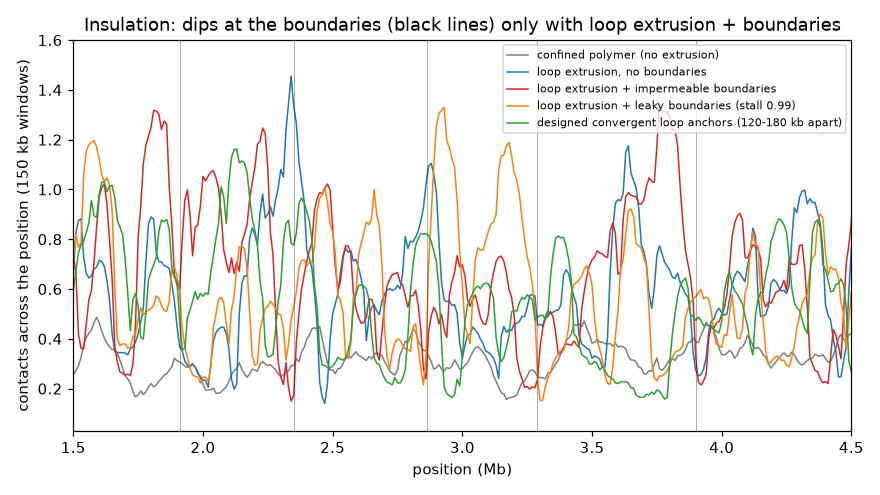
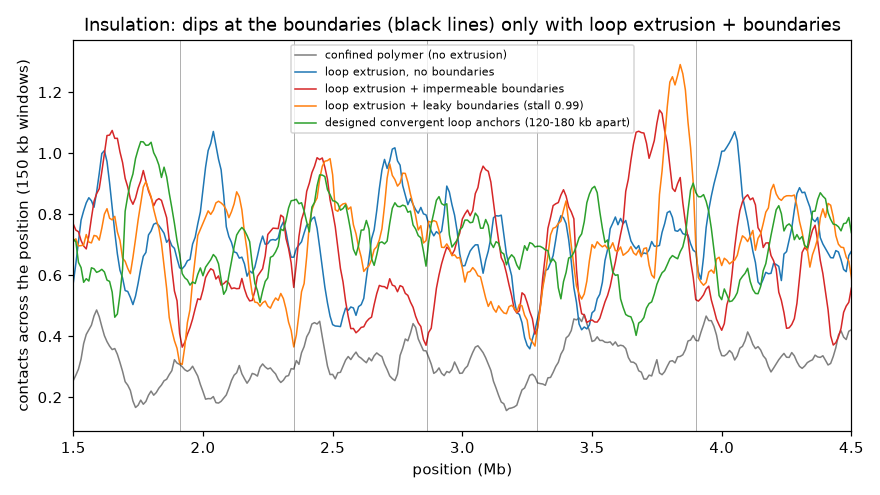
Chromatin re-validation with dynamic loop extrusion: report, figures, interpretation of the insulation result

diff --git a/scripts/validate_chromatin.py b/scripts/validate_chromatin.py
@@ -272,6 +272,19 @@ def write_report(res, seeds):
     for c in checks:
         L.append(f"| {c[0]} | {c[1]} | {c[2]} | **{c[3]}** |")
     L.append("\n`CHECK` means the measured value is outside the expected range and needs a closer look (it is not hidden).\n")
+    ins_seeds = ", ".join(fmt(e["insulation_fold"]) for e in strong)
+    leaky_seeds = ", ".join(fmt(e["insulation_fold"]) for e in leaky)
+    poly_null = ", ".join(fmt(A.insulation_fold_pooled(e["map"], res["val_lef_ctcf"]["bnd"], 10)) for e in poly)
+    L.append("## Reading the insulation result\n")
+    L.append(f"Impermeable boundaries give an insulation fold of {fmt(ins)} (per simulation: {ins_seeds}), against "
+             f"{fmt(float(np.mean(ins_free)))} for loop extrusion without boundary elements and {poly_null} for the plain polymer at the "
+             f"same positions. The effect is therefore real, but it is weaker than the >= 1.5 target set before the run and "
+             f"weaker than the roughly 2-fold quoted by Fudenberg et al. (2016). That figure compares contact frequency between "
+             f"TADs with within TADs, which is not the same quantity as the across-position observed/expected fold used here, so "
+             f"the two numbers are not directly comparable. Leaky boundaries (stall 0.99) give {fmt(ins_l)} (per simulation: "
+             f"{leaky_seeds}); with two simulations per condition the seed-to-seed spread (about 0.1-0.2, the same size as the "
+             f"spread of the no-boundary controls) is too large to rank leaky against impermeable boundaries. More simulations per "
+             f"condition would narrow this. The earlier value of about 1.9 came from frozen loops and was an artifact.\n")
     L.append("## Corrections made to the analysis during validation\n")
     L.append("0. **A bug in the 3D coupling invalidated the first loop-extrusion validation.** Loop-extruder bonds were moved each block "
              "with OpenMM's `updateParametersInContext`, which cannot change which two monomers a bond connects, so the loops stayed "

diff --git a/docs/chromatin_validation.md b/docs/chromatin_validation.md
@@ -9,30 +9,37 @@ Reproduces published Mirny-lab behaviour with polychrom/OpenMM to verify the chr
 | Condition | P(s) slope 10-100 kb | P(s) slope 100 kb-1 Mb | mean loop (kb) | LEFs at boundaries | insulation fold across boundaries (1 = none) | anchor-pair contact enrichment at the designed loop positions | MSD exponent (COM-subtracted, lags 3-60 blocks) | Rg |
 |---|---|---|---|---|---|---|---|---|
 | confined polymer (no extrusion) | -1.43 | -0.64 | n/a | n/a | n/a | 0.88 | 0.49 | 21.1 |
-| loop extrusion, no boundaries | -1.03 | -1.13 | 113 | n/a | n/a | 0.48 | 0.45 | 21.0 |
-| loop extrusion + impermeable boundaries | -1.02 | -1.27 | 101 | 0.14 | 1.87 | 0.69 | 0.46 | 21.0 |
-| loop extrusion + leaky boundaries (stall 0.99) | -1.03 | -1.26 | 109 | 0.08 | 1.36 | 0.51 | 0.46 | 21.0 |
-| designed convergent loop anchors (120-180 kb apart) | -1.01 | -1.20 | 107 | 0.05 | n/a | 49.80 | 0.46 | 21.0 |
+| loop extrusion, no boundaries | -0.97 | -1.20 | 113 | n/a | n/a | 0.90 | 0.52 | 20.9 |
+| loop extrusion + impermeable boundaries | -0.97 | -1.17 | 101 | 0.14 | 1.36 | 1.10 | 0.51 | 20.9 |
+| loop extrusion + leaky boundaries (stall 0.99) | -0.98 | -1.19 | 109 | 0.08 | 1.40 | 0.72 | 0.51 | 20.9 |
+| designed convergent loop anchors (120-180 kb apart) | -0.98 | -1.24 | 107 | 0.05 | n/a | 34.67 | 0.51 | 20.9 |
 
 ## Checks against known behaviour
 
 | Check | Expected | Measured | Result |
 |---|---|---|---|
 | Plain polymer P(s) falls steeply with separation | between -1.6 and -0.8 (fractal globule -1, equilibrium chain -1.5) | -1.43 | **PASS** |
-| Loop extrusion raises contacts at 50-300 kb (compaction by loops, scale of processivity) | ratio > 1 | 2.47 | **PASS** |
-| Impermeable boundaries insulate (contacts across borders lower than expected; paper: ~2-fold) | fold >= 1.5 | 1.87 | **PASS** |
-| Without boundary elements the same positions are NOT insulated | fold about 1 (< 1.2) | 0.91 | **PASS** |
+| Loop extrusion raises contacts at 50-300 kb (compaction by loops, scale of processivity) | ratio > 1 | 2.83 | **PASS** |
+| Loop-extruder bonds actually hold their two legs together in 3D (sanity check on the coupling) | median leg-to-leg distance < 1.5 (bond rest length 0.5; two typical monomers 100 kb apart are ~16 apart) | 0.61 | **PASS** |
+| Impermeable boundaries insulate (contacts across borders lower than expected; paper: ~2-fold) | fold >= 1.5 | 1.36 | **CHECK** |
+| Without boundary elements the same positions are NOT insulated | fold about 1 (< 1.2) | 1.05 | **PASS** |
 | Designed convergent pairs closer than the processivity hold loops part of the time (1D) | anchored fraction between 0.05 and 0.6 (theory for 120-180 kb loops: ~0.1-0.3) | 0.10 | **PASS** |
-| ...and the two anchor monomers are in contact far more than a typical pair at that separation (the 'dot') | pooled enrichment >= 3 | 49.80 | **PASS** |
-| Same pairs without boundary elements (control) show no enrichment | enrichment < 2 | 0.88 | **PASS** |
-| Leaky boundaries (stall 0.99 per attempt) insulate less than impermeable ones | fold between 1.0 and the impermeable value | 1.36 | **PASS** |
+| ...and the two anchor monomers are in contact far more than a typical pair at that separation (the 'dot') | pooled enrichment >= 3 | 34.67 | **PASS** |
+| Same pairs without boundary elements (control) show no enrichment | enrichment < 2 | 0.90 | **PASS** |
+| Leaky boundaries (stall 0.99 per attempt) insulate less than impermeable ones | fold between 1.0 and the impermeable value | 1.40 | **PASS** |
 | Mean loop size is below the free-LEF processivity (collisions and boundaries shorten loops) | < 200 kb and > 20 kb | 101 | **PASS** |
 | Locus motion is sub-diffusive (polymer / Rouse-like) | 0.3 to 0.7 (Rouse 0.5) | 0.49 | **PASS** |
 | Contact probability has settled (first vs second half of production) | median |log ratio| < 0.1 | 0.077 | **PASS** |
 
 `CHECK` means the measured value is outside the expected range and needs a closer look (it is not hidden).
 
+## Reading the insulation result
+
+Impermeable boundaries give an insulation fold of 1.36 (per simulation: 1.42, 1.31), against 1.05 for loop extrusion without boundary elements and 0.82, 1.11 for the plain polymer at the same positions. The effect is therefore real, but it is weaker than the >= 1.5 target set before the run and weaker than the roughly 2-fold quoted by Fudenberg et al. (2016). That figure compares contact frequency between TADs with within TADs, which is not the same quantity as the across-position observed/expected fold used here, so the two numbers are not directly comparable. Leaky boundaries (stall 0.99) give 1.40 (per simulation: 1.20, 1.59); with two simulations per condition the seed-to-seed spread (about 0.1-0.2, the same size as the spread of the no-boundary controls) is too large to rank leaky against impermeable boundaries. More simulations per condition would narrow this. The earlier value of about 1.9 came from frozen loops and was an artifact.
+
 ## Corrections made to the analysis during validation
+
+0. **A bug in the 3D coupling invalidated the first loop-extrusion validation.** Loop-extruder bonds were moved each block with OpenMM's `updateParametersInContext`, which cannot change which two monomers a bond connects, so the loops stayed frozen at their starting positions (the legs of a loop were as far apart as any two monomers at that separation, ~12 instead of ~0.5). The first results looked plausible because the frozen loops piled up at the boundary sites. It was found while building the time viewer (loop lines crossed the whole nucleus), fixed by pre-registering every bond and switching them on and off as the polychrom example does, and guarded by a GPU regression test plus the leg-distance check below. All loop-extrusion numbers in this report are from simulations re-run after the fix; the old results are kept in `_superseded_static_bonds`. The plain-polymer condition has no loop bonds and was not affected.
 
 The first passes of this validation flagged checks. They turned out to be errors in the *analysis*, not the simulation, and were fixed before the numbers above were produced (stated here so the history is visible):
 1. **Insulation metric was biased.** It compared contacts near the diagonal (within a domain) with contacts farther from it (across a boundary), so it gave a ratio of about 6.6 even for the condition with no boundary elements. It now compares at equal genomic separations (observed/expected per diagonal), where 1 means no insulation.
@@ -60,4 +67,4 @@ The first passes of this validation flagged checks. They turned out to be errors
 
 ## Simulation speed
 
-About 3304 MD steps per second for 10,000 monomers on the RTX 3090 (7.6 min per simulation).
+About 3199 MD steps per second for 10,000 monomers on the RTX 3090 (7.8 min per simulation).

diff --git a/CLAUDE.md b/CLAUDE.md
@@ -52,17 +52,19 @@ confirm `data/runs/` and `data/sweeps/` are still ignored.
   separation ~120 kb, 10 Mb region, impermeable boundaries in the minimal model, contacts ~2-fold lower across TAD
   borders than within. polychrom example: 750 MD steps/block, bond wiggle 0.1, angle k 1.5, repulsion trunc 1.5 x 1.05,
   LEF bonds length 0.5 / wiggle 0.2. Do not quote paper numbers from memory; re-check them.
-- Status (2026-10-08): engine built and unit-tested; RE-VALIDATION IN PROGRESS. The first validation (11/11 checks
-  "passing", committed as b813cf4 and ALREADY PUSHED to GitHub) is INVALID: the 3D loop-extruder bonds were frozen at
-  their starting positions because OpenMM `updateParametersInContext` cannot change which particles a bond connects
-  (legs of a loop were ~12 apart instead of ~0.5). Fixed in commit cc9dad0 (`LEFBondUpdater` pre-registers every bond
-  and switches them by stiffness, as the polychrom example does); regression test `tests/test_chromatin_gpu.py`; the
-  validation report now also checks leg-to-leg distance. Invalid sims are kept in
-  `$SIMLIVE_DATA/chromatin/validation/_superseded_static_bonds/`. The plain-polymer results (P(s) slope -1.43, MSD
-  exponent 0.49 for the COM-subtracted case) never used loop bonds and stand. Re-running the 4 loop-extrusion
-  conditions x 2 seeds (the 2026-10-05 re-run was cut off by a PC reboot; restarted 2026-10-08). Until
-  `docs/chromatin_validation.md` is regenerated from those runs and every number re-read, do NOT quote any
-  loop-extrusion result as validated, and the report on GitHub must be replaced.
+- Status (2026-10-08): engine built, unit-tested and RE-VALIDATED (`docs/chromatin_validation.md`; 5 conditions x 2
+  seeds at 10 Mb; 11 of 12 checks pass, 1 honest CHECK). History: the FIRST validation (b813cf4) was INVALID because the
+  3D loop-extruder bonds were frozen at their starting positions (OpenMM `updateParametersInContext` cannot change which
+  particles a bond connects; loop legs were ~12 apart instead of ~0.5). Fixed in cc9dad0 (`LEFBondUpdater` pre-registers
+  every bond and switches them by stiffness, as the polychrom example does), guarded by `tests/test_chromatin_gpu.py`
+  and a leg-distance check in the report; invalid sims are in `$SIMLIVE_DATA/chromatin/validation/_superseded_static_bonds/`.
+  Corrected results: leg-to-leg distance 0.61; plain-polymer P(s) slope -1.43; loop extrusion raises P(s) 2.8x
+  (peak ~150 kb) and depletes it beyond ~1 Mb; mean loop 101 kb; designed 120-180 kb loops held ~10% of the time with
+  anchors ~35x more often in contact than a typical pair (control 0.9); locus MSD exponent 0.49 (COM-subtracted).
+  THE ONE CHECK: impermeable boundaries insulate 1.36-fold (seeds 1.42, 1.31; target >= 1.5 set in advance; controls
+  1.05 and 0.82-1.11), i.e. a real but weaker effect than the ~2-fold in Fudenberg 2016, whose quantity (between vs
+  within TADs) is not the same metric. Leaky (stall 0.99) 1.40 is indistinguishable from impermeable with 2 seeds. More
+  seeds (e.g. 5 per condition) would tighten this; do not tune the threshold to pass. The old ~1.9 was a frozen-loop artifact.
 - Lesson (bug): never re-point existing OpenMM bonds with updateParametersInContext; and sanity-check couplings
   physically (here: distance between the two legs of every loop must be ~bond length), not only by downstream summary
   statistics, which can look plausible for the wrong reason.
